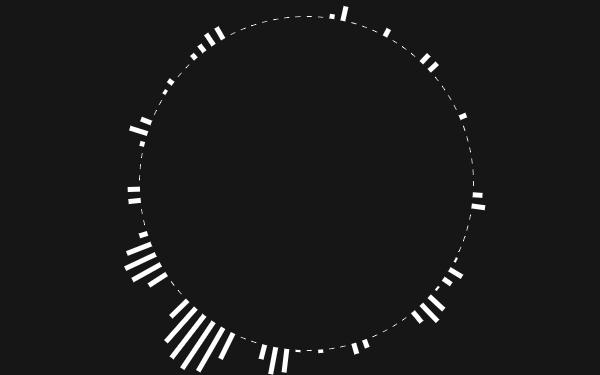
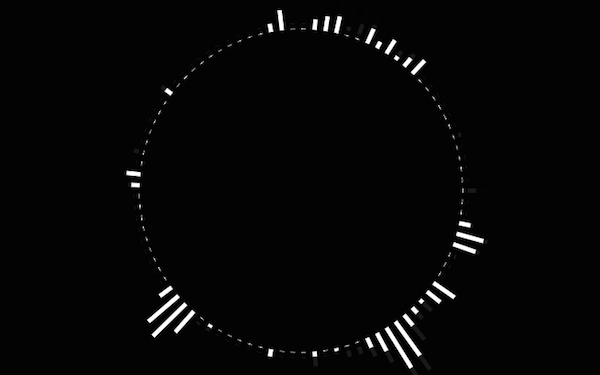
udpate visualizer5

diff --git a/docs/js/visualizer5/app.js b/docs/js/visualizer5/app.js
@@ -1,1 +1,1 @@
-!function(e){function t(r){if(n[r])return n[r].exports;var i=n[r]={i:r,l:!1,exports:{}};return e[r].call(i.exports,i,i.exports,t),i.l=!0,i.exports}var n={};t.m=e,t.c=n,t.i=function(e){return e},t.d=function(e,n,r){t.o(e,n)||Object.defineProperty(e,n,{configurable:!1,enumerable:!0,get:r})},t.n=function(e){var n=e&&e.__esModule?function(){return e.default}:function(){return e};return t.d(n,"a",n),n},t.o=function(e,t){return Object.prototype.hasOwnProperty.call(e,t)},t.p="",t(t.s=17)}([function(e,t,n){"use strict";Object.defineProperty(t,"__esModule",{value:!0}),t.default=function(){return(0,i.default)()?function(){var e="",t=location.pathname.split("/");t=t.filter(function(e){return""!==e});for(var n=0,r=t.length-1;n<r;n+=1)n===t.length-1?e+="..":e+="../";return e}():""};var r=n(2),i=function(e){return e&&e.__esModule?e:{default:e}}(r)},,function(e,t,n){"use strict";Object.defineProperty(t,"__esModule",{value:!0}),t.default=function(){return-1!==location.host.indexOf("github.io")}},,function(e,t,n){"use strict";function r(e,t,n,r,i){return(e-t)/(n-t)*(i-r)+r}Object.defineProperty(t,"__esModule",{value:!0}),t.map=r},function(e,t,n){"use strict";function r(e,t){if(!(e instanceof t))throw new TypeError("Cannot call a class as a function")}Object.defineProperty(t,"__esModule",{value:!0});var i=function(){function e(e,t){for(var n=0;n<t.length;n++){var r=t[n];r.enumerable=r.enumerable||!1,r.configurable=!0,"value"in r&&(r.writable=!0),Object.defineProperty(e,r.key,r)}}return function(t,n,r){return n&&e(t.prototype,n),r&&e(t,r),t}}(),o=function(){function e(t){var n=t.audioCtx,i=t.buffer,o=t.smoothing,u=void 0===o?.8:o;r(this,e),this.souce=n.createBufferSource(),this.souce.buffer=i,this.gain=n.createGain(),this.analyser=n.createAnalyser(),this.analyser.smoothingTimeConstant=u,this.fftSize=this.analyser.frequencyBinCount,this.freqs=new Uint8Array(this.analyser.frequencyBinCount),this.times=new Uint8Array(this.analyser.frequencyBinCount),this.souce.connect(this.gain),this.gain.connect(this.analyser),this.analyser.connect(n.destination)}return i(e,[{key:"start",value:function(){this.souce.start(0)}},{key:"setVolume",value:function(e){this.gain.gain.value=e}},{key:"mute",value:function(){this.gain.gain.value=0}},{key:"disconnect",value:function(){this.souce.disconnect()}},{key:"frequencySpectrum",value:function(e,t){var n=this;if(this.analyser.getByteFrequencyData(this.freqs),void 0===e&&void 0===t)return this.freqs;var r=0,i=[];return this.freqs.forEach(function(o,u){(r=44100*u/n.analyser.fftSize)>e&&r<t&&i.push(o)}),i}},{key:"AboveAverageFrequencySpectrum",value:function(){var e=arguments.length>0&&void 0!==arguments[0]?arguments[0]:1;this.analyser.getByteFrequencyData(this.freqs);var t=this.freqs.reduce(function(e,t){return e+t},0)/this.fftSize;return this.freqs.filter(function(e){return e>t}).map(function(n){return(n-t)*e})}},{key:"adjustedFrequencySpectrum",value:function(){this.analyser.getByteFrequencyData(this.freqs);var e=this.freqs.reduce(function(e,t){return e+t},0)/this.fftSize;return this.freqs.map(function(t){return t>e?t-e:0})}},{key:"amplitudeLevel",value:function(){return this.analyser.getByteTimeDomainData(this.times),Math.sqrt(this.times.map(function(e){return e*e}).reduce(function(e,t){return e+t}))}},{key:"deviation",value:function(e){var t=e.reduce(function(e,t){return e+t},0)/e.length;return e.map(function(e){return e>t?e-t:0})}}]),e}();t.default=o},function(e,t,n){"use strict";Object.defineProperty(t,"__esModule",{value:!0}),t.default=function(e){var t=e.audioCtx,n=e.url;return new Promise(function(e,r){var i=new XMLHttpRequest;i.open("GET",n,!0),i.responseType="arraybuffer",i.onload=function(){t.decodeAudioData(i.response,function(t){t||(console.log("error"),r()),e(t)},function(e){console.log("decodeAudioData error"),r()})},i.onerror=function(){console.log("Loader: XHR error"),r()},i.send()})}},,,,function(e,t,n){"use strict";function r(e){var t=e.p,n=e.radius;t.push(),t.noStroke(),t.fill(255,10),t.ellipse(0,0,2*n,2*n),t.pop()}function i(e){var t=e.ctx,n=e.bufferSize,r=e.index,i=e.waveform,o=e.radius,u=e.lineColor,s=void 0===u?"#fff":u,f=e.lineWidth,c=void 0===f?1:f,l=2*Math.PI*r/n,d=o*Math.cos(l),h=o*Math.sin(l),v=a.map(i,0,255,0,150)*Math.pow(1.1,3),p=(o+v)*Math.cos(l),y=(o+v)*Math.sin(l);t.strokeStyle=s,t.lineWidth=c,t.beginPath(),t.moveTo(d,h),t.lineTo(p,y),t.stroke()}function o(e){var t=e.p,n=e.bufferSize,r=e.offset,i=e.waveform,o=e.radius,u=e.amp,a=e.maxAmp,s=0,f=0,c=0,l=0,d=void 0;t.noFill(),t.stroke(255,90),t.beginShape();for(var h=0;h<n;h+=r)d=h+r>n?0:h,s=i[d]*(a/u),f=2*Math.PI*d/n,c=(o+100*s)*Math.cos(f),l=(o+100*s)*Math.sin(f),t.vertex(c,l),t.push(),t.stroke(255,80),t.strokeWeight(2),h+r<n&&t.point(c,l),t.pop();t.endShape()}Object.defineProperty(t,"__esModule",{value:!0}),t.drawCenterCircle=r,t.drawBarOnArc=i,t.drawVertex=o;var u=n(4),a=function(e){if(e&&e.__esModule)return e;var t={};if(null!=e)for(var n in e)Object.prototype.hasOwnProperty.call(e,n)&&(t[n]=e[n]);return t.default=e,t}(u)},,,,,,,function(e,t,n){"use strict";function r(e){if(e&&e.__esModule)return e;var t={};if(null!=e)for(var n in e)Object.prototype.hasOwnProperty.call(e,n)&&(t[n]=e[n]);return t.default=e,t}function i(e){return e&&e.__esModule?e:{default:e}}function o(e){_=new s.default({audioCtx:q,buffer:e,smoothing:.5}),_.setVolume(.2),_.start()}function u(){requestAnimationFrame(u),b.clearRect(0,0,w,g);var e=_.amplitudeLevel(),t=_.deviation(_.frequencySpectrum(1e3,3e3)),n=t.length;b.save(),b.translate(w/2,g/2),t.forEach(function(t,r){y.drawBarOnArc({ctx:b,bufferSize:n,index:r,waveform:0!==t?t*Math.pow(1.1,5):1,radius:c.map(e,0,255,150,200),lineWidth:5})}),b.restore()}var a=n(5),s=i(a),f=n(4),c=r(f),l=n(6),d=i(l),h=n(0),v=i(h),p=n(10),y=r(p),m=document.getElementById("canvas"),w=0,g=0;m.width=w=window.innerWidth,m.height=g=window.innerHeight;var b=m.getContext("2d");window.resize=function(){m.width=w=window.innerWidth,m.height=g=window.innerHeight};var q=new(window.AudioContext||window.webkitAudioContext),M=(0,v.default)()+"/sound/sample.mp3",_=null;(0,d.default)({audioCtx:q,url:M}).then(function(e){o(e),u()})}]);
+!function(e){function t(r){if(n[r])return n[r].exports;var i=n[r]={i:r,l:!1,exports:{}};return e[r].call(i.exports,i,i.exports,t),i.l=!0,i.exports}var n={};t.m=e,t.c=n,t.i=function(e){return e},t.d=function(e,n,r){t.o(e,n)||Object.defineProperty(e,n,{configurable:!1,enumerable:!0,get:r})},t.n=function(e){var n=e&&e.__esModule?function(){return e.default}:function(){return e};return t.d(n,"a",n),n},t.o=function(e,t){return Object.prototype.hasOwnProperty.call(e,t)},t.p="",t(t.s=17)}([function(e,t,n){"use strict";Object.defineProperty(t,"__esModule",{value:!0}),t.default=function(){return(0,i.default)()?function(){var e="",t=location.pathname.split("/");t=t.filter(function(e){return""!==e});for(var n=0,r=t.length-1;n<r;n+=1)n===t.length-1?e+="..":e+="../";return e}():""};var r=n(2),i=function(e){return e&&e.__esModule?e:{default:e}}(r)},,function(e,t,n){"use strict";Object.defineProperty(t,"__esModule",{value:!0}),t.default=function(){return-1!==location.host.indexOf("github.io")}},,function(e,t,n){"use strict";function r(e,t,n,r,i){return(e-t)/(n-t)*(i-r)+r}Object.defineProperty(t,"__esModule",{value:!0}),t.map=r},function(e,t,n){"use strict";function r(e,t){if(!(e instanceof t))throw new TypeError("Cannot call a class as a function")}Object.defineProperty(t,"__esModule",{value:!0});var i=function(){function e(e,t){for(var n=0;n<t.length;n++){var r=t[n];r.enumerable=r.enumerable||!1,r.configurable=!0,"value"in r&&(r.writable=!0),Object.defineProperty(e,r.key,r)}}return function(t,n,r){return n&&e(t.prototype,n),r&&e(t,r),t}}(),o=function(){function e(t){var n=t.audioCtx,i=t.buffer,o=t.smoothing,u=void 0===o?.8:o;r(this,e),this.souce=n.createBufferSource(),this.souce.buffer=i,this.gain=n.createGain(),this.analyser=n.createAnalyser(),this.analyser.smoothingTimeConstant=u,this.fftSize=this.analyser.frequencyBinCount,this.freqs=new Uint8Array(this.analyser.frequencyBinCount),this.times=new Uint8Array(this.analyser.frequencyBinCount),this.souce.connect(this.gain),this.gain.connect(this.analyser),this.analyser.connect(n.destination)}return i(e,[{key:"start",value:function(){this.souce.start(0)}},{key:"setVolume",value:function(e){this.gain.gain.value=e}},{key:"mute",value:function(){this.gain.gain.value=0}},{key:"disconnect",value:function(){this.souce.disconnect()}},{key:"frequencySpectrum",value:function(e,t){var n=this;if(this.analyser.getByteFrequencyData(this.freqs),void 0===e&&void 0===t)return this.freqs;var r=0,i=[];return this.freqs.forEach(function(o,u){(r=44100*u/n.analyser.fftSize)>e&&r<t&&i.push(o)}),i}},{key:"AboveAverageFrequencySpectrum",value:function(){var e=arguments.length>0&&void 0!==arguments[0]?arguments[0]:1;this.analyser.getByteFrequencyData(this.freqs);var t=this.freqs.reduce(function(e,t){return e+t},0)/this.fftSize;return this.freqs.filter(function(e){return e>t}).map(function(n){return(n-t)*e})}},{key:"adjustedFrequencySpectrum",value:function(){this.analyser.getByteFrequencyData(this.freqs);var e=this.freqs.reduce(function(e,t){return e+t},0)/this.fftSize;return this.freqs.map(function(t){return t>e?t-e:0})}},{key:"amplitudeLevel",value:function(){return this.analyser.getByteTimeDomainData(this.times),Math.sqrt(this.times.map(function(e){return e*e}).reduce(function(e,t){return e+t}))}},{key:"deviation",value:function(e){var t=e.reduce(function(e,t){return e+t},0)/e.length;return e.map(function(e){return e>t?e-t:0})}}]),e}();t.default=o},function(e,t,n){"use strict";Object.defineProperty(t,"__esModule",{value:!0}),t.default=function(e){var t=e.audioCtx,n=e.url;return new Promise(function(e,r){var i=new XMLHttpRequest;i.open("GET",n,!0),i.responseType="arraybuffer",i.onload=function(){t.decodeAudioData(i.response,function(t){t||(console.log("error"),r()),e(t)},function(e){console.log("decodeAudioData error"),r()})},i.onerror=function(){console.log("Loader: XHR error"),r()},i.send()})}},,,,function(e,t,n){"use strict";function r(e){var t=e.p,n=e.radius;t.push(),t.noStroke(),t.fill(255,10),t.ellipse(0,0,2*n,2*n),t.pop()}function i(e){var t=e.ctx,n=e.bufferSize,r=e.index,i=e.waveform,o=e.radius,u=e.lineColor,s=void 0===u?"#fff":u,f=e.lineWidth,c=void 0===f?1:f,l=2*Math.PI*r/n,d=o*Math.cos(l),h=o*Math.sin(l),v=a.map(i,0,255,0,150)*Math.pow(1.1,3),p=(o+v)*Math.cos(l),y=(o+v)*Math.sin(l);t.strokeStyle=s,t.lineWidth=c,t.beginPath(),t.moveTo(d,h),t.lineTo(p,y),t.stroke()}function o(e){var t=e.p,n=e.bufferSize,r=e.offset,i=e.waveform,o=e.radius,u=e.amp,a=e.maxAmp,s=0,f=0,c=0,l=0,d=void 0;t.noFill(),t.stroke(255,90),t.beginShape();for(var h=0;h<n;h+=r)d=h+r>n?0:h,s=i[d]*(a/u),f=2*Math.PI*d/n,c=(o+100*s)*Math.cos(f),l=(o+100*s)*Math.sin(f),t.vertex(c,l),t.push(),t.stroke(255,80),t.strokeWeight(2),h+r<n&&t.point(c,l),t.pop();t.endShape()}Object.defineProperty(t,"__esModule",{value:!0}),t.drawCenterCircle=r,t.drawBarOnArc=i,t.drawVertex=o;var u=n(4),a=function(e){if(e&&e.__esModule)return e;var t={};if(null!=e)for(var n in e)Object.prototype.hasOwnProperty.call(e,n)&&(t[n]=e[n]);return t.default=e,t}(u)},,,,,,,function(e,t,n){"use strict";function r(e){if(e&&e.__esModule)return e;var t={};if(null!=e)for(var n in e)Object.prototype.hasOwnProperty.call(e,n)&&(t[n]=e[n]);return t.default=e,t}function i(e){return e&&e.__esModule?e:{default:e}}function o(e){_=new s.default({audioCtx:q,buffer:e,smoothing:.5}),_.setVolume(.2),_.start()}function u(){requestAnimationFrame(u),b.fillStyle="rgba(0, 0, 0, 0.9)",b.fillRect(0,0,g,w);var e=_.amplitudeLevel(),t=_.deviation(_.frequencySpectrum(1e3,3e3)),n=t.length;b.save(),b.translate(g/2,w/2),t.forEach(function(t,r){y.drawBarOnArc({ctx:b,bufferSize:n,index:r,waveform:0!==t?t*Math.pow(1.1,5):1,radius:c.map(e,0,255,150,200),lineWidth:5})}),b.restore()}var a=n(5),s=i(a),f=n(4),c=r(f),l=n(6),d=i(l),h=n(0),v=i(h),p=n(10),y=r(p),m=document.getElementById("canvas"),g=0,w=0;m.width=g=window.innerWidth,m.height=w=window.innerHeight;var b=m.getContext("2d");window.resize=function(){m.width=g=window.innerWidth,m.height=w=window.innerHeight};var q=new(window.AudioContext||window.webkitAudioContext),M=(0,v.default)()+"/sound/sample.mp3",_=null;(0,d.default)({audioCtx:q,url:M}).then(function(e){o(e),u()})}]);

diff --git a/src/js/visualizer5/app.js b/src/js/visualizer5/app.js
@@ -44,7 +44,8 @@ function setup(buffer) {
 function draw() {
   requestAnimationFrame(draw);
 
-  ctx.clearRect(0, 0, cw, ch);
+  ctx.fillStyle = 'rgba(0, 0, 0, 0.9)';
+  ctx.fillRect(0, 0, cw, ch);
 
   const amplitudeLevel = sound.amplitudeLevel();
   const spectrum = sound.deviation(sound.frequencySpectrum(1000, 3000));
